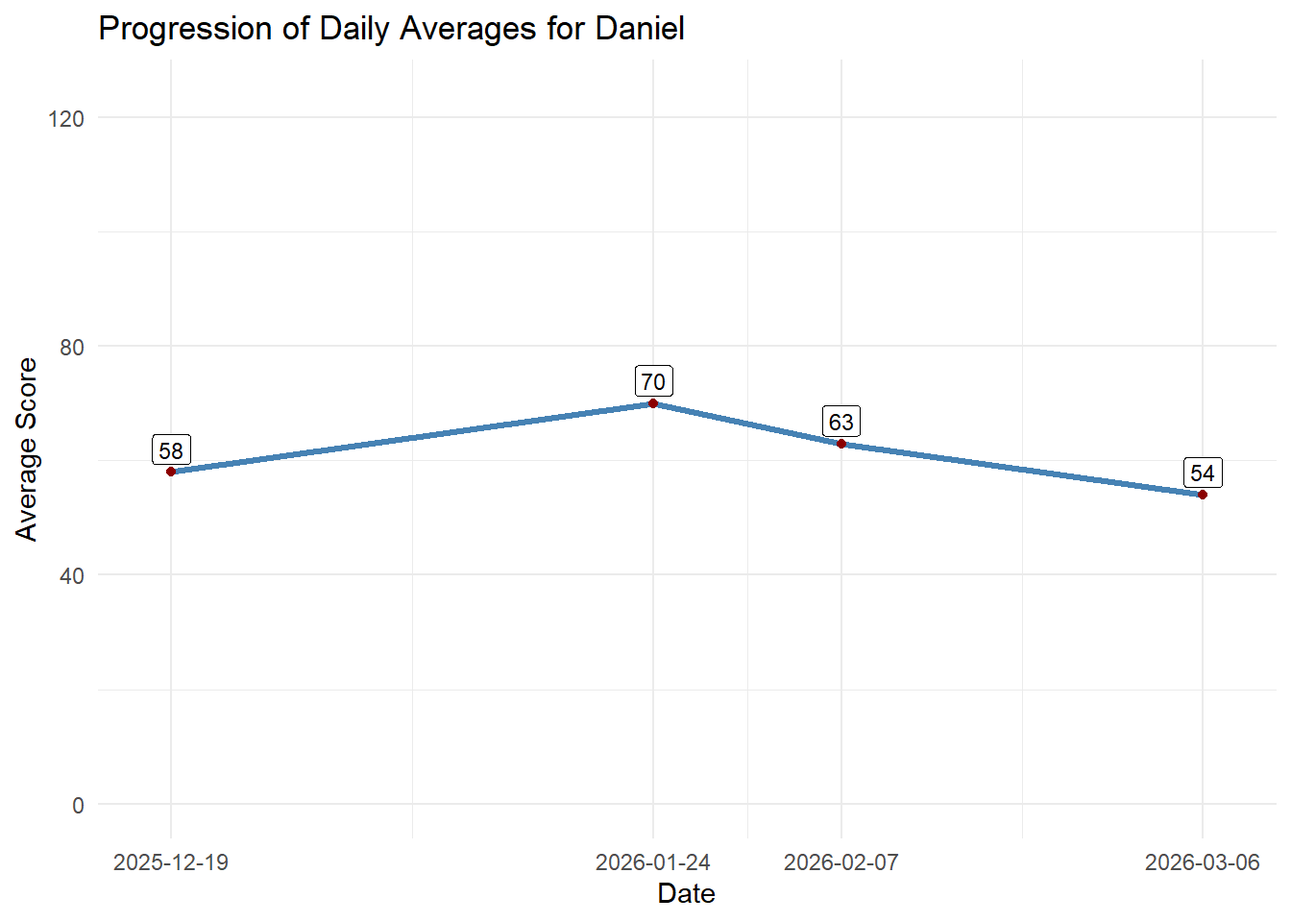
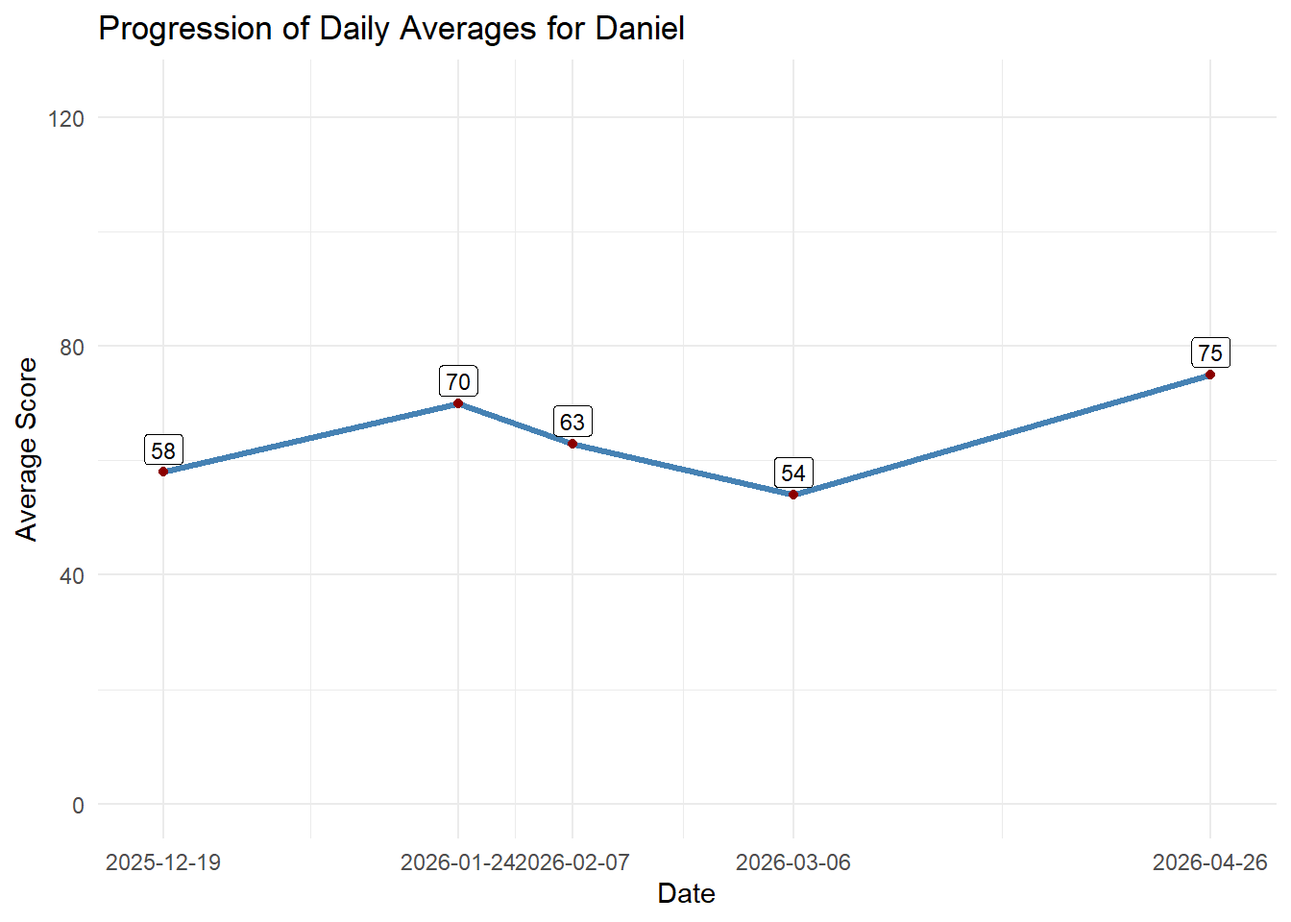
added results of 2026-04-26

diff --git a/docs/sessions.html b/docs/sessions.html
@@ -179,47 +179,56 @@ ul.task-list li input[type="checkbox"] {
 
 <p>The sessions are sorted from new to old.</p>
 <section id="section" class="level2">
-<h2 class="anchored" data-anchor-id="section">27.03.2026</h2>
+<h2 class="anchored" data-anchor-id="section">26.04.2026</h2>
 <div class="cell">
 <div class="cell-output-display">
-<div class="datatables html-widget html-fill-item" id="htmlwidget-effa2fcfee733bdd86a0" style="width:100%;height:auto;"></div>
-<script type="application/json" data-for="htmlwidget-effa2fcfee733bdd86a0">{"x":{"filter":"none","vertical":false,"data":[["1","2","3","4"],["Niko","Anatolii","Flora","Julia"],[119,88,75,49],[105,81,89,94],[112,84.5,82,71.5],[9.9,4.9,9.9,31.8],[3,2,1,4]],"container":"<table class=\"display\">\n  <thead>\n    <tr>\n      <th> <\/th>\n      <th>Player<\/th>\n      <th>Round 1<\/th>\n      <th>Round 2<\/th>\n      <th>Average Score<\/th>\n      <th>Score Standard Deviation<\/th>\n      <th>Strikes<\/th>\n    <\/tr>\n  <\/thead>\n<\/table>","options":{"dom":"t","paging":false,"searching":false,"info":false,"lengthChange":false,"columnDefs":[{"orderSequence":["desc","asc"],"targets":"_all"},{"className":"dt-right","targets":[2,3,4,5,6]},{"orderable":false,"targets":0},{"name":" ","targets":0},{"name":"Player","targets":1},{"name":"Round 1","targets":2},{"name":"Round 2","targets":3},{"name":"Average Score","targets":4},{"name":"Score Standard Deviation","targets":5},{"name":"Strikes","targets":6}],"order":[],"autoWidth":false,"orderClasses":false}},"evals":[],"jsHooks":[]}</script>
+<div class="datatables html-widget html-fill-item" id="htmlwidget-60a95d5fb278fb2bba35" style="width:100%;height:auto;"></div>
+<script type="application/json" data-for="htmlwidget-60a95d5fb278fb2bba35">{"x":{"filter":"none","vertical":false,"data":[["1","2","3","4"],["Anatolii","Niko","Daniel","Flora"],[85,85,57,46],[90,71,93,78],[87.5,78,75,62],[3.5,9.9,25.5,22.6],[2,0,1,1]],"container":"<table class=\"display\">\n  <thead>\n    <tr>\n      <th> <\/th>\n      <th>Player<\/th>\n      <th>Round 1<\/th>\n      <th>Round 2<\/th>\n      <th>Average Score<\/th>\n      <th>Score Standard Deviation<\/th>\n      <th>Strikes<\/th>\n    <\/tr>\n  <\/thead>\n<\/table>","options":{"dom":"t","paging":false,"searching":false,"info":false,"lengthChange":false,"columnDefs":[{"orderSequence":["desc","asc"],"targets":"_all"},{"className":"dt-right","targets":[2,3,4,5,6]},{"orderable":false,"targets":0},{"name":" ","targets":0},{"name":"Player","targets":1},{"name":"Round 1","targets":2},{"name":"Round 2","targets":3},{"name":"Average Score","targets":4},{"name":"Score Standard Deviation","targets":5},{"name":"Strikes","targets":6}],"order":[],"autoWidth":false,"orderClasses":false}},"evals":[],"jsHooks":[]}</script>
 </div>
 </div>
 </section>
 <section id="section-1" class="level2">
-<h2 class="anchored" data-anchor-id="section-1">06.03.2026</h2>
+<h2 class="anchored" data-anchor-id="section-1">27.03.2026</h2>
 <div class="cell">
 <div class="cell-output-display">
-<div class="datatables html-widget html-fill-item" id="htmlwidget-b308853e47e1a6294600" style="width:100%;height:auto;"></div>
-<script type="application/json" data-for="htmlwidget-b308853e47e1a6294600">{"x":{"filter":"none","vertical":false,"data":[["1","2","3","4"],["Flora","Julia","Daniel","Maria"],[95,45,57,58],[77,64,50,38],[86,54.5,53.5,48],[12.7,13.4,4.9,14.1],[2,0,1,0]],"container":"<table class=\"display\">\n  <thead>\n    <tr>\n      <th> <\/th>\n      <th>Player<\/th>\n      <th>Round 1<\/th>\n      <th>Round 2<\/th>\n      <th>Average Score<\/th>\n      <th>Score Standard Deviation<\/th>\n      <th>Strikes<\/th>\n    <\/tr>\n  <\/thead>\n<\/table>","options":{"dom":"t","paging":false,"searching":false,"info":false,"lengthChange":false,"columnDefs":[{"orderSequence":["desc","asc"],"targets":"_all"},{"className":"dt-right","targets":[2,3,4,5,6]},{"orderable":false,"targets":0},{"name":" ","targets":0},{"name":"Player","targets":1},{"name":"Round 1","targets":2},{"name":"Round 2","targets":3},{"name":"Average Score","targets":4},{"name":"Score Standard Deviation","targets":5},{"name":"Strikes","targets":6}],"order":[],"autoWidth":false,"orderClasses":false}},"evals":[],"jsHooks":[]}</script>
+<div class="datatables html-widget html-fill-item" id="htmlwidget-807c30022fb1ad3accb7" style="width:100%;height:auto;"></div>
+<script type="application/json" data-for="htmlwidget-807c30022fb1ad3accb7">{"x":{"filter":"none","vertical":false,"data":[["1","2","3","4"],["Niko","Anatolii","Flora","Julia"],[119,88,75,49],[105,81,89,94],[112,84.5,82,71.5],[9.9,4.9,9.9,31.8],[3,2,1,4]],"container":"<table class=\"display\">\n  <thead>\n    <tr>\n      <th> <\/th>\n      <th>Player<\/th>\n      <th>Round 1<\/th>\n      <th>Round 2<\/th>\n      <th>Average Score<\/th>\n      <th>Score Standard Deviation<\/th>\n      <th>Strikes<\/th>\n    <\/tr>\n  <\/thead>\n<\/table>","options":{"dom":"t","paging":false,"searching":false,"info":false,"lengthChange":false,"columnDefs":[{"orderSequence":["desc","asc"],"targets":"_all"},{"className":"dt-right","targets":[2,3,4,5,6]},{"orderable":false,"targets":0},{"name":" ","targets":0},{"name":"Player","targets":1},{"name":"Round 1","targets":2},{"name":"Round 2","targets":3},{"name":"Average Score","targets":4},{"name":"Score Standard Deviation","targets":5},{"name":"Strikes","targets":6}],"order":[],"autoWidth":false,"orderClasses":false}},"evals":[],"jsHooks":[]}</script>
 </div>
 </div>
 </section>
 <section id="section-2" class="level2">
-<h2 class="anchored" data-anchor-id="section-2">07.02.2026</h2>
+<h2 class="anchored" data-anchor-id="section-2">06.03.2026</h2>
 <div class="cell">
 <div class="cell-output-display">
-<div class="datatables html-widget html-fill-item" id="htmlwidget-b8e3eefb095fd78a4b74" style="width:100%;height:auto;"></div>
-<script type="application/json" data-for="htmlwidget-b8e3eefb095fd78a4b74">{"x":{"filter":"none","vertical":false,"data":[["1","2","3","4"],["Niko","Anatolii","Julia","Daniel"],[81,71,63,49],[124,74,68,82],[82,81,70,59],[95.7,75.3,67,63.3],[24.5,5.1,3.6,16.9],[2,2,0,0]],"container":"<table class=\"display\">\n  <thead>\n    <tr>\n      <th> <\/th>\n      <th>Player<\/th>\n      <th>Round 1<\/th>\n      <th>Round 2<\/th>\n      <th>Round 3<\/th>\n      <th>Average Score<\/th>\n      <th>Score Standard Deviation<\/th>\n      <th>Strikes<\/th>\n    <\/tr>\n  <\/thead>\n<\/table>","options":{"dom":"t","paging":false,"searching":false,"info":false,"lengthChange":false,"columnDefs":[{"orderSequence":["desc","asc"],"targets":"_all"},{"className":"dt-right","targets":[2,3,4,5,6,7]},{"orderable":false,"targets":0},{"name":" ","targets":0},{"name":"Player","targets":1},{"name":"Round 1","targets":2},{"name":"Round 2","targets":3},{"name":"Round 3","targets":4},{"name":"Average Score","targets":5},{"name":"Score Standard Deviation","targets":6},{"name":"Strikes","targets":7}],"order":[],"autoWidth":false,"orderClasses":false}},"evals":[],"jsHooks":[]}</script>
+<div class="datatables html-widget html-fill-item" id="htmlwidget-5e85454294df7d7a7c48" style="width:100%;height:auto;"></div>
+<script type="application/json" data-for="htmlwidget-5e85454294df7d7a7c48">{"x":{"filter":"none","vertical":false,"data":[["1","2","3","4"],["Flora","Julia","Daniel","Maria"],[95,45,57,58],[77,64,50,38],[86,54.5,53.5,48],[12.7,13.4,4.9,14.1],[2,0,1,0]],"container":"<table class=\"display\">\n  <thead>\n    <tr>\n      <th> <\/th>\n      <th>Player<\/th>\n      <th>Round 1<\/th>\n      <th>Round 2<\/th>\n      <th>Average Score<\/th>\n      <th>Score Standard Deviation<\/th>\n      <th>Strikes<\/th>\n    <\/tr>\n  <\/thead>\n<\/table>","options":{"dom":"t","paging":false,"searching":false,"info":false,"lengthChange":false,"columnDefs":[{"orderSequence":["desc","asc"],"targets":"_all"},{"className":"dt-right","targets":[2,3,4,5,6]},{"orderable":false,"targets":0},{"name":" ","targets":0},{"name":"Player","targets":1},{"name":"Round 1","targets":2},{"name":"Round 2","targets":3},{"name":"Average Score","targets":4},{"name":"Score Standard Deviation","targets":5},{"name":"Strikes","targets":6}],"order":[],"autoWidth":false,"orderClasses":false}},"evals":[],"jsHooks":[]}</script>
 </div>
 </div>
 </section>
 <section id="section-3" class="level2">
-<h2 class="anchored" data-anchor-id="section-3">24.01.2026</h2>
+<h2 class="anchored" data-anchor-id="section-3">07.02.2026</h2>
 <div class="cell">
 <div class="cell-output-display">
-<div class="datatables html-widget html-fill-item" id="htmlwidget-a43e8916b580a3f84c12" style="width:100%;height:auto;"></div>
-<script type="application/json" data-for="htmlwidget-a43e8916b580a3f84c12">{"x":{"filter":"none","vertical":false,"data":[["1","2","3","4","5"],["Niko","Anatolii","Daniel","Julia","Flora"],[73,73,82,65,46],[101,70,54,81,81],[86,71,75,64,72],[86.7,71.3,70.3,70,66.3],[14,1.5,14.6,9.5,18.2],[2,2,0,3,1]],"container":"<table class=\"display\">\n  <thead>\n    <tr>\n      <th> <\/th>\n      <th>Player<\/th>\n      <th>Round 1<\/th>\n      <th>Round 2<\/th>\n      <th>Round 3<\/th>\n      <th>Average Score<\/th>\n      <th>Score Standard Deviation<\/th>\n      <th>Strikes<\/th>\n    <\/tr>\n  <\/thead>\n<\/table>","options":{"dom":"t","paging":false,"searching":false,"info":false,"lengthChange":false,"columnDefs":[{"orderSequence":["desc","asc"],"targets":"_all"},{"className":"dt-right","targets":[2,3,4,5,6,7]},{"orderable":false,"targets":0},{"name":" ","targets":0},{"name":"Player","targets":1},{"name":"Round 1","targets":2},{"name":"Round 2","targets":3},{"name":"Round 3","targets":4},{"name":"Average Score","targets":5},{"name":"Score Standard Deviation","targets":6},{"name":"Strikes","targets":7}],"order":[],"autoWidth":false,"orderClasses":false}},"evals":[],"jsHooks":[]}</script>
+<div class="datatables html-widget html-fill-item" id="htmlwidget-0cbfdb08501b581d9af6" style="width:100%;height:auto;"></div>
+<script type="application/json" data-for="htmlwidget-0cbfdb08501b581d9af6">{"x":{"filter":"none","vertical":false,"data":[["1","2","3","4"],["Niko","Anatolii","Julia","Daniel"],[81,71,63,49],[124,74,68,82],[82,81,70,59],[95.7,75.3,67,63.3],[24.5,5.1,3.6,16.9],[2,2,0,0]],"container":"<table class=\"display\">\n  <thead>\n    <tr>\n      <th> <\/th>\n      <th>Player<\/th>\n      <th>Round 1<\/th>\n      <th>Round 2<\/th>\n      <th>Round 3<\/th>\n      <th>Average Score<\/th>\n      <th>Score Standard Deviation<\/th>\n      <th>Strikes<\/th>\n    <\/tr>\n  <\/thead>\n<\/table>","options":{"dom":"t","paging":false,"searching":false,"info":false,"lengthChange":false,"columnDefs":[{"orderSequence":["desc","asc"],"targets":"_all"},{"className":"dt-right","targets":[2,3,4,5,6,7]},{"orderable":false,"targets":0},{"name":" ","targets":0},{"name":"Player","targets":1},{"name":"Round 1","targets":2},{"name":"Round 2","targets":3},{"name":"Round 3","targets":4},{"name":"Average Score","targets":5},{"name":"Score Standard Deviation","targets":6},{"name":"Strikes","targets":7}],"order":[],"autoWidth":false,"orderClasses":false}},"evals":[],"jsHooks":[]}</script>
 </div>
 </div>
 </section>
 <section id="section-4" class="level2">
-<h2 class="anchored" data-anchor-id="section-4">19.12.2025</h2>
+<h2 class="anchored" data-anchor-id="section-4">24.01.2026</h2>
 <div class="cell">
 <div class="cell-output-display">
-<div class="datatables html-widget html-fill-item" id="htmlwidget-caf82d900a7888361215" style="width:100%;height:auto;"></div>
-<script type="application/json" data-for="htmlwidget-caf82d900a7888361215">{"x":{"filter":"none","vertical":false,"data":[["1","2","3","4","5"],["Niko","Anatolii","Julia","Flora","Daniel"],[73,61,66,105,48],[97,79,79,51,77],[90,101,79,43,49],[86.7,80.3,74.7,66.3,58],[12.3,20,7.5,33.7,16.5],[3,2,0,2,1]],"container":"<table class=\"display\">\n  <thead>\n    <tr>\n      <th> <\/th>\n      <th>Player<\/th>\n      <th>Round 1<\/th>\n      <th>Round 2<\/th>\n      <th>Round 3<\/th>\n      <th>Average Score<\/th>\n      <th>Score Standard Deviation<\/th>\n      <th>Strikes<\/th>\n    <\/tr>\n  <\/thead>\n<\/table>","options":{"dom":"t","paging":false,"searching":false,"info":false,"lengthChange":false,"columnDefs":[{"orderSequence":["desc","asc"],"targets":"_all"},{"className":"dt-right","targets":[2,3,4,5,6,7]},{"orderable":false,"targets":0},{"name":" ","targets":0},{"name":"Player","targets":1},{"name":"Round 1","targets":2},{"name":"Round 2","targets":3},{"name":"Round 3","targets":4},{"name":"Average Score","targets":5},{"name":"Score Standard Deviation","targets":6},{"name":"Strikes","targets":7}],"order":[],"autoWidth":false,"orderClasses":false}},"evals":[],"jsHooks":[]}</script>
+<div class="datatables html-widget html-fill-item" id="htmlwidget-4eeefd9e6f059277057b" style="width:100%;height:auto;"></div>
+<script type="application/json" data-for="htmlwidget-4eeefd9e6f059277057b">{"x":{"filter":"none","vertical":false,"data":[["1","2","3","4","5"],["Niko","Anatolii","Daniel","Julia","Flora"],[73,73,82,65,46],[101,70,54,81,81],[86,71,75,64,72],[86.7,71.3,70.3,70,66.3],[14,1.5,14.6,9.5,18.2],[2,2,0,3,1]],"container":"<table class=\"display\">\n  <thead>\n    <tr>\n      <th> <\/th>\n      <th>Player<\/th>\n      <th>Round 1<\/th>\n      <th>Round 2<\/th>\n      <th>Round 3<\/th>\n      <th>Average Score<\/th>\n      <th>Score Standard Deviation<\/th>\n      <th>Strikes<\/th>\n    <\/tr>\n  <\/thead>\n<\/table>","options":{"dom":"t","paging":false,"searching":false,"info":false,"lengthChange":false,"columnDefs":[{"orderSequence":["desc","asc"],"targets":"_all"},{"className":"dt-right","targets":[2,3,4,5,6,7]},{"orderable":false,"targets":0},{"name":" ","targets":0},{"name":"Player","targets":1},{"name":"Round 1","targets":2},{"name":"Round 2","targets":3},{"name":"Round 3","targets":4},{"name":"Average Score","targets":5},{"name":"Score Standard Deviation","targets":6},{"name":"Strikes","targets":7}],"order":[],"autoWidth":false,"orderClasses":false}},"evals":[],"jsHooks":[]}</script>
+</div>
+</div>
+</section>
+<section id="section-5" class="level2">
+<h2 class="anchored" data-anchor-id="section-5">19.12.2025</h2>
+<div class="cell">
+<div class="cell-output-display">
+<div class="datatables html-widget html-fill-item" id="htmlwidget-f11d975f3b57e3078458" style="width:100%;height:auto;"></div>
+<script type="application/json" data-for="htmlwidget-f11d975f3b57e3078458">{"x":{"filter":"none","vertical":false,"data":[["1","2","3","4","5"],["Niko","Anatolii","Julia","Flora","Daniel"],[73,61,66,105,48],[97,79,79,51,77],[90,101,79,43,49],[86.7,80.3,74.7,66.3,58],[12.3,20,7.5,33.7,16.5],[3,2,0,2,1]],"container":"<table class=\"display\">\n  <thead>\n    <tr>\n      <th> <\/th>\n      <th>Player<\/th>\n      <th>Round 1<\/th>\n      <th>Round 2<\/th>\n      <th>Round 3<\/th>\n      <th>Average Score<\/th>\n      <th>Score Standard Deviation<\/th>\n      <th>Strikes<\/th>\n    <\/tr>\n  <\/thead>\n<\/table>","options":{"dom":"t","paging":false,"searching":false,"info":false,"lengthChange":false,"columnDefs":[{"orderSequence":["desc","asc"],"targets":"_all"},{"className":"dt-right","targets":[2,3,4,5,6,7]},{"orderable":false,"targets":0},{"name":" ","targets":0},{"name":"Player","targets":1},{"name":"Round 1","targets":2},{"name":"Round 2","targets":3},{"name":"Round 3","targets":4},{"name":"Average Score","targets":5},{"name":"Score Standard Deviation","targets":6},{"name":"Strikes","targets":7}],"order":[],"autoWidth":false,"orderClasses":false}},"evals":[],"jsHooks":[]}</script>
 </div>
 </div>
 

diff --git a/docs/index.html b/docs/index.html
@@ -179,8 +179,8 @@ ul.task-list li input[type="checkbox"] {
 
 <div class="cell">
 <div class="cell-output-display">
-<div class="datatables html-widget html-fill-item" id="htmlwidget-2c00bdac7072eb062334" style="width:100%;height:auto;"></div>
-<script type="application/json" data-for="htmlwidget-2c00bdac7072eb062334">{"x":{"filter":"none","vertical":false,"data":[["1","2","3","4","5","6"],["Niko","Anatolii","Flora","Julia","Daniel","Maria"],[11,11,10,13,11,2],[93.7,77.3,73.40000000000001,68.2,62,48],[124,101,105,94,82,58],[73,61,43,45,48,38],[17.3,10.6,21,13.1,14,14.1],[0.9,0.7,0.6,0.5,0.2,0]],"container":"<table class=\"display\">\n  <thead>\n    <tr>\n      <th> <\/th>\n      <th>Player<\/th>\n      <th>Total Rounds Played<\/th>\n      <th>Average Score<\/th>\n      <th>Best Score<\/th>\n      <th>Worst Score<\/th>\n      <th>Score Standard Deviation<\/th>\n      <th>Strikes/ Game<\/th>\n    <\/tr>\n  <\/thead>\n<\/table>","options":{"dom":"t","paging":false,"searching":false,"info":false,"lengthChange":false,"columnDefs":[{"orderSequence":["desc","asc"],"targets":"_all"},{"className":"dt-right","targets":[2,3,4,5,6,7]},{"orderable":false,"targets":0},{"name":" ","targets":0},{"name":"Player","targets":1},{"name":"Total Rounds Played","targets":2},{"name":"Average Score","targets":3},{"name":"Best Score","targets":4},{"name":"Worst Score","targets":5},{"name":"Score Standard Deviation","targets":6},{"name":"Strikes/ Game","targets":7}],"order":[],"autoWidth":false,"orderClasses":false}},"evals":[],"jsHooks":[]}</script>
+<div class="datatables html-widget html-fill-item" id="htmlwidget-fb018e53b0d8a314315c" style="width:100%;height:auto;"></div>
+<script type="application/json" data-for="htmlwidget-fb018e53b0d8a314315c">{"x":{"filter":"none","vertical":false,"data":[["1","2","3","4","5","6"],["Niko","Anatolii","Flora","Julia","Daniel","Maria"],[13,13,12,13,13,2],[91.3,78.8,71.5,68.2,64,48],[124,101,105,94,93,58],[71,61,43,45,48,38],[17.1,10.5,20.6,13.1,15.6,14.1],[0.8,0.8,0.6,0.5,0.2,0]],"container":"<table class=\"display\">\n  <thead>\n    <tr>\n      <th> <\/th>\n      <th>Player<\/th>\n      <th>Total Rounds Played<\/th>\n      <th>Average Score<\/th>\n      <th>Best Score<\/th>\n      <th>Worst Score<\/th>\n      <th>Score Standard Deviation<\/th>\n      <th>Strikes/ Game<\/th>\n    <\/tr>\n  <\/thead>\n<\/table>","options":{"dom":"t","paging":false,"searching":false,"info":false,"lengthChange":false,"columnDefs":[{"orderSequence":["desc","asc"],"targets":"_all"},{"className":"dt-right","targets":[2,3,4,5,6,7]},{"orderable":false,"targets":0},{"name":" ","targets":0},{"name":"Player","targets":1},{"name":"Total Rounds Played","targets":2},{"name":"Average Score","targets":3},{"name":"Best Score","targets":4},{"name":"Worst Score","targets":5},{"name":"Score Standard Deviation","targets":6},{"name":"Strikes/ Game","targets":7}],"order":[],"autoWidth":false,"orderClasses":false}},"evals":[],"jsHooks":[]}</script>
 </div>
 </div>
 

diff --git a/docs/players/flora.html b/docs/players/flora.html
@@ -179,8 +179,8 @@ ul.task-list li input[type="checkbox"] {
 <h2 class="anchored" data-anchor-id="stats-overview">Stats Overview</h2>
 <div class="cell">
 <div class="cell-output-display">
-<div class="datatables html-widget html-fill-item" id="htmlwidget-9ec30089ae21331f8933" style="width:100%;height:auto;"></div>
-<script type="application/json" data-for="htmlwidget-9ec30089ae21331f8933">{"x":{"filter":"none","vertical":false,"data":[[10],[105],[43],[73.40000000000001],[21],[0.6]],"container":"<table class=\"display\">\n  <thead>\n    <tr>\n      <th>Total Rounds Played<\/th>\n      <th>Highest Score<\/th>\n      <th>Lowest Score<\/th>\n      <th>Average Score<\/th>\n      <th>Score Standard Deviation<\/th>\n      <th>Strikes/ Game<\/th>\n    <\/tr>\n  <\/thead>\n<\/table>","options":{"dom":"t","paging":false,"searching":false,"info":false,"lengthChange":false,"columnDefs":[{"className":"dt-right","targets":[0,1,2,3,4,5]},{"name":"Total Rounds Played","targets":0},{"name":"Highest Score","targets":1},{"name":"Lowest Score","targets":2},{"name":"Average Score","targets":3},{"name":"Score Standard Deviation","targets":4},{"name":"Strikes/ Game","targets":5}],"order":[],"autoWidth":false,"orderClasses":false}},"evals":[],"jsHooks":[]}</script>
+<div class="datatables html-widget html-fill-item" id="htmlwidget-f2dbd1909c974ecd1c83" style="width:100%;height:auto;"></div>
+<script type="application/json" data-for="htmlwidget-f2dbd1909c974ecd1c83">{"x":{"filter":"none","vertical":false,"data":[[12],[105],[43],[71.5],[20.6],[0.6]],"container":"<table class=\"display\">\n  <thead>\n    <tr>\n      <th>Total Rounds Played<\/th>\n      <th>Highest Score<\/th>\n      <th>Lowest Score<\/th>\n      <th>Average Score<\/th>\n      <th>Score Standard Deviation<\/th>\n      <th>Strikes/ Game<\/th>\n    <\/tr>\n  <\/thead>\n<\/table>","options":{"dom":"t","paging":false,"searching":false,"info":false,"lengthChange":false,"columnDefs":[{"className":"dt-right","targets":[0,1,2,3,4,5]},{"name":"Total Rounds Played","targets":0},{"name":"Highest Score","targets":1},{"name":"Lowest Score","targets":2},{"name":"Average Score","targets":3},{"name":"Score Standard Deviation","targets":4},{"name":"Strikes/ Game","targets":5}],"order":[],"autoWidth":false,"orderClasses":false}},"evals":[],"jsHooks":[]}</script>
 </div>
 </div>
 </section>

diff --git a/docs/players/anatolii.html b/docs/players/anatolii.html
@@ -179,8 +179,8 @@ ul.task-list li input[type="checkbox"] {
 <h2 class="anchored" data-anchor-id="stats-overview">Stats Overview</h2>
 <div class="cell">
 <div class="cell-output-display">
-<div class="datatables html-widget html-fill-item" id="htmlwidget-f496b88ac72aecbaec1b" style="width:100%;height:auto;"></div>
-<script type="application/json" data-for="htmlwidget-f496b88ac72aecbaec1b">{"x":{"filter":"none","vertical":false,"data":[[11],[101],[61],[77.3],[10.6],[0.7]],"container":"<table class=\"display\">\n  <thead>\n    <tr>\n      <th>Total Rounds Played<\/th>\n      <th>Highest Score<\/th>\n      <th>Lowest Score<\/th>\n      <th>Average Score<\/th>\n      <th>Score Standard Deviation<\/th>\n      <th>Strikes/ Game<\/th>\n    <\/tr>\n  <\/thead>\n<\/table>","options":{"dom":"t","paging":false,"searching":false,"info":false,"lengthChange":false,"columnDefs":[{"className":"dt-right","targets":[0,1,2,3,4,5]},{"name":"Total Rounds Played","targets":0},{"name":"Highest Score","targets":1},{"name":"Lowest Score","targets":2},{"name":"Average Score","targets":3},{"name":"Score Standard Deviation","targets":4},{"name":"Strikes/ Game","targets":5}],"order":[],"autoWidth":false,"orderClasses":false}},"evals":[],"jsHooks":[]}</script>
+<div class="datatables html-widget html-fill-item" id="htmlwidget-b89f018ba14fa07ef988" style="width:100%;height:auto;"></div>
+<script type="application/json" data-for="htmlwidget-b89f018ba14fa07ef988">{"x":{"filter":"none","vertical":false,"data":[[13],[101],[61],[78.8],[10.5],[0.8]],"container":"<table class=\"display\">\n  <thead>\n    <tr>\n      <th>Total Rounds Played<\/th>\n      <th>Highest Score<\/th>\n      <th>Lowest Score<\/th>\n      <th>Average Score<\/th>\n      <th>Score Standard Deviation<\/th>\n      <th>Strikes/ Game<\/th>\n    <\/tr>\n  <\/thead>\n<\/table>","options":{"dom":"t","paging":false,"searching":false,"info":false,"lengthChange":false,"columnDefs":[{"className":"dt-right","targets":[0,1,2,3,4,5]},{"name":"Total Rounds Played","targets":0},{"name":"Highest Score","targets":1},{"name":"Lowest Score","targets":2},{"name":"Average Score","targets":3},{"name":"Score Standard Deviation","targets":4},{"name":"Strikes/ Game","targets":5}],"order":[],"autoWidth":false,"orderClasses":false}},"evals":[],"jsHooks":[]}</script>
 </div>
 </div>
 </section>

diff --git a/docs/players/niko.html b/docs/players/niko.html
@@ -179,8 +179,8 @@ ul.task-list li input[type="checkbox"] {
 <h2 class="anchored" data-anchor-id="stats-overview">Stats Overview</h2>
 <div class="cell">
 <div class="cell-output-display">
-<div class="datatables html-widget html-fill-item" id="htmlwidget-1f86c50b4e87f321c8ac" style="width:100%;height:auto;"></div>
-<script type="application/json" data-for="htmlwidget-1f86c50b4e87f321c8ac">{"x":{"filter":"none","vertical":false,"data":[[11],[124],[73],[93.7],[17.3],[0.9]],"container":"<table class=\"display\">\n  <thead>\n    <tr>\n      <th>Total Rounds Played<\/th>\n      <th>Highest Score<\/th>\n      <th>Lowest Score<\/th>\n      <th>Average Score<\/th>\n      <th>Score Standard Deviation<\/th>\n      <th>Strikes/ Game<\/th>\n    <\/tr>\n  <\/thead>\n<\/table>","options":{"dom":"t","paging":false,"searching":false,"info":false,"lengthChange":false,"columnDefs":[{"className":"dt-right","targets":[0,1,2,3,4,5]},{"name":"Total Rounds Played","targets":0},{"name":"Highest Score","targets":1},{"name":"Lowest Score","targets":2},{"name":"Average Score","targets":3},{"name":"Score Standard Deviation","targets":4},{"name":"Strikes/ Game","targets":5}],"order":[],"autoWidth":false,"orderClasses":false}},"evals":[],"jsHooks":[]}</script>
+<div class="datatables html-widget html-fill-item" id="htmlwidget-fdfd38cee054f5969bbd" style="width:100%;height:auto;"></div>
+<script type="application/json" data-for="htmlwidget-fdfd38cee054f5969bbd">{"x":{"filter":"none","vertical":false,"data":[[13],[124],[71],[91.3],[17.1],[0.8]],"container":"<table class=\"display\">\n  <thead>\n    <tr>\n      <th>Total Rounds Played<\/th>\n      <th>Highest Score<\/th>\n      <th>Lowest Score<\/th>\n      <th>Average Score<\/th>\n      <th>Score Standard Deviation<\/th>\n      <th>Strikes/ Game<\/th>\n    <\/tr>\n  <\/thead>\n<\/table>","options":{"dom":"t","paging":false,"searching":false,"info":false,"lengthChange":false,"columnDefs":[{"className":"dt-right","targets":[0,1,2,3,4,5]},{"name":"Total Rounds Played","targets":0},{"name":"Highest Score","targets":1},{"name":"Lowest Score","targets":2},{"name":"Average Score","targets":3},{"name":"Score Standard Deviation","targets":4},{"name":"Strikes/ Game","targets":5}],"order":[],"autoWidth":false,"orderClasses":false}},"evals":[],"jsHooks":[]}</script>
 </div>
 </div>
 </section>

diff --git a/docs/players/julia.html b/docs/players/julia.html
@@ -179,8 +179,8 @@ ul.task-list li input[type="checkbox"] {
 <h2 class="anchored" data-anchor-id="stats-overview">Stats Overview</h2>
 <div class="cell">
 <div class="cell-output-display">
-<div class="datatables html-widget html-fill-item" id="htmlwidget-7e770af08539891a5f5a" style="width:100%;height:auto;"></div>
-<script type="application/json" data-for="htmlwidget-7e770af08539891a5f5a">{"x":{"filter":"none","vertical":false,"data":[[13],[94],[45],[68.2],[13.1],[0.5]],"container":"<table class=\"display\">\n  <thead>\n    <tr>\n      <th>Total Rounds Played<\/th>\n      <th>Highest Score<\/th>\n      <th>Lowest Score<\/th>\n      <th>Average Score<\/th>\n      <th>Score Standard Deviation<\/th>\n      <th>Strikes/ Game<\/th>\n    <\/tr>\n  <\/thead>\n<\/table>","options":{"dom":"t","paging":false,"searching":false,"info":false,"lengthChange":false,"columnDefs":[{"className":"dt-right","targets":[0,1,2,3,4,5]},{"name":"Total Rounds Played","targets":0},{"name":"Highest Score","targets":1},{"name":"Lowest Score","targets":2},{"name":"Average Score","targets":3},{"name":"Score Standard Deviation","targets":4},{"name":"Strikes/ Game","targets":5}],"order":[],"autoWidth":false,"orderClasses":false}},"evals":[],"jsHooks":[]}</script>
+<div class="datatables html-widget html-fill-item" id="htmlwidget-064eb3e21efe26cf2d9c" style="width:100%;height:auto;"></div>
+<script type="application/json" data-for="htmlwidget-064eb3e21efe26cf2d9c">{"x":{"filter":"none","vertical":false,"data":[[13],[94],[45],[68.2],[13.1],[0.5]],"container":"<table class=\"display\">\n  <thead>\n    <tr>\n      <th>Total Rounds Played<\/th>\n      <th>Highest Score<\/th>\n      <th>Lowest Score<\/th>\n      <th>Average Score<\/th>\n      <th>Score Standard Deviation<\/th>\n      <th>Strikes/ Game<\/th>\n    <\/tr>\n  <\/thead>\n<\/table>","options":{"dom":"t","paging":false,"searching":false,"info":false,"lengthChange":false,"columnDefs":[{"className":"dt-right","targets":[0,1,2,3,4,5]},{"name":"Total Rounds Played","targets":0},{"name":"Highest Score","targets":1},{"name":"Lowest Score","targets":2},{"name":"Average Score","targets":3},{"name":"Score Standard Deviation","targets":4},{"name":"Strikes/ Game","targets":5}],"order":[],"autoWidth":false,"orderClasses":false}},"evals":[],"jsHooks":[]}</script>
 </div>
 </div>
 </section>

diff --git a/docs/players/nico.html b/docs/players/nico.html
@@ -187,8 +187,8 @@ Caused by warning in `max()`:
 ℹ Run `dplyr::last_dplyr_warnings()` to see the 1 remaining warning.</code></pre>
 </div>
 <div class="cell-output-display">
-<div class="datatables html-widget html-fill-item" id="htmlwidget-131b3cc204a42529f502" style="width:100%;height:auto;"></div>
-<script type="application/json" data-for="htmlwidget-131b3cc204a42529f502">{"x":{"filter":"none","vertical":false,"data":[[0],[null],[null],[null],[null],[null]],"container":"<table class=\"display\">\n  <thead>\n    <tr>\n      <th>Total Rounds Played<\/th>\n      <th>Highest Score<\/th>\n      <th>Lowest Score<\/th>\n      <th>Average Score<\/th>\n      <th>Score Standard Deviation<\/th>\n      <th>Strikes/ Game<\/th>\n    <\/tr>\n  <\/thead>\n<\/table>","options":{"dom":"t","paging":false,"searching":false,"info":false,"lengthChange":false,"columnDefs":[{"className":"dt-right","targets":[0,1,2,3,4,5]},{"name":"Total Rounds Played","targets":0},{"name":"Highest Score","targets":1},{"name":"Lowest Score","targets":2},{"name":"Average Score","targets":3},{"name":"Score Standard Deviation","targets":4},{"name":"Strikes/ Game","targets":5}],"order":[],"autoWidth":false,"orderClasses":false}},"evals":[],"jsHooks":[]}</script>
+<div class="datatables html-widget html-fill-item" id="htmlwidget-d2c49a22425ba72ce243" style="width:100%;height:auto;"></div>
+<script type="application/json" data-for="htmlwidget-d2c49a22425ba72ce243">{"x":{"filter":"none","vertical":false,"data":[[0],[null],[null],[null],[null],[null]],"container":"<table class=\"display\">\n  <thead>\n    <tr>\n      <th>Total Rounds Played<\/th>\n      <th>Highest Score<\/th>\n      <th>Lowest Score<\/th>\n      <th>Average Score<\/th>\n      <th>Score Standard Deviation<\/th>\n      <th>Strikes/ Game<\/th>\n    <\/tr>\n  <\/thead>\n<\/table>","options":{"dom":"t","paging":false,"searching":false,"info":false,"lengthChange":false,"columnDefs":[{"className":"dt-right","targets":[0,1,2,3,4,5]},{"name":"Total Rounds Played","targets":0},{"name":"Highest Score","targets":1},{"name":"Lowest Score","targets":2},{"name":"Average Score","targets":3},{"name":"Score Standard Deviation","targets":4},{"name":"Strikes/ Game","targets":5}],"order":[],"autoWidth":false,"orderClasses":false}},"evals":[],"jsHooks":[]}</script>
 </div>
 </div>
 </section>

diff --git a/docs/players/daniel.html b/docs/players/daniel.html
@@ -179,8 +179,8 @@ ul.task-list li input[type="checkbox"] {
 <h2 class="anchored" data-anchor-id="stats-overview">Stats Overview</h2>
 <div class="cell">
 <div class="cell-output-display">
-<div class="datatables html-widget html-fill-item" id="htmlwidget-4d69e341e1eaff02aa9f" style="width:100%;height:auto;"></div>
-<script type="application/json" data-for="htmlwidget-4d69e341e1eaff02aa9f">{"x":{"filter":"none","vertical":false,"data":[[11],[82],[48],[62],[14],[0.2]],"container":"<table class=\"display\">\n  <thead>\n    <tr>\n      <th>Total Rounds Played<\/th>\n      <th>Highest Score<\/th>\n      <th>Lowest Score<\/th>\n      <th>Average Score<\/th>\n      <th>Score Standard Deviation<\/th>\n      <th>Strikes/ Game<\/th>\n    <\/tr>\n  <\/thead>\n<\/table>","options":{"dom":"t","paging":false,"searching":false,"info":false,"lengthChange":false,"columnDefs":[{"className":"dt-right","targets":[0,1,2,3,4,5]},{"name":"Total Rounds Played","targets":0},{"name":"Highest Score","targets":1},{"name":"Lowest Score","targets":2},{"name":"Average Score","targets":3},{"name":"Score Standard Deviation","targets":4},{"name":"Strikes/ Game","targets":5}],"order":[],"autoWidth":false,"orderClasses":false}},"evals":[],"jsHooks":[]}</script>
+<div class="datatables html-widget html-fill-item" id="htmlwidget-2c2a53b4b7c50027eb07" style="width:100%;height:auto;"></div>
+<script type="application/json" data-for="htmlwidget-2c2a53b4b7c50027eb07">{"x":{"filter":"none","vertical":false,"data":[[13],[93],[48],[64],[15.6],[0.2]],"container":"<table class=\"display\">\n  <thead>\n    <tr>\n      <th>Total Rounds Played<\/th>\n      <th>Highest Score<\/th>\n      <th>Lowest Score<\/th>\n      <th>Average Score<\/th>\n      <th>Score Standard Deviation<\/th>\n      <th>Strikes/ Game<\/th>\n    <\/tr>\n  <\/thead>\n<\/table>","options":{"dom":"t","paging":false,"searching":false,"info":false,"lengthChange":false,"columnDefs":[{"className":"dt-right","targets":[0,1,2,3,4,5]},{"name":"Total Rounds Played","targets":0},{"name":"Highest Score","targets":1},{"name":"Lowest Score","targets":2},{"name":"Average Score","targets":3},{"name":"Score Standard Deviation","targets":4},{"name":"Strikes/ Game","targets":5}],"order":[],"autoWidth":false,"orderClasses":false}},"evals":[],"jsHooks":[]}</script>
 </div>
 </div>
 </section>

diff --git a/docs/players/maria.html b/docs/players/maria.html
@@ -179,8 +179,8 @@ ul.task-list li input[type="checkbox"] {
 <h2 class="anchored" data-anchor-id="stats-overview">Stats Overview</h2>
 <div class="cell">
 <div class="cell-output-display">
-<div class="datatables html-widget html-fill-item" id="htmlwidget-6343e75e28210a5a5dd7" style="width:100%;height:auto;"></div>
-<script type="application/json" data-for="htmlwidget-6343e75e28210a5a5dd7">{"x":{"filter":"none","vertical":false,"data":[[2],[58],[38],[48],[14.1],[0]],"container":"<table class=\"display\">\n  <thead>\n    <tr>\n      <th>Total Rounds Played<\/th>\n      <th>Highest Score<\/th>\n      <th>Lowest Score<\/th>\n      <th>Average Score<\/th>\n      <th>Score Standard Deviation<\/th>\n      <th>Strikes/ Game<\/th>\n    <\/tr>\n  <\/thead>\n<\/table>","options":{"dom":"t","paging":false,"searching":false,"info":false,"lengthChange":false,"columnDefs":[{"className":"dt-right","targets":[0,1,2,3,4,5]},{"name":"Total Rounds Played","targets":0},{"name":"Highest Score","targets":1},{"name":"Lowest Score","targets":2},{"name":"Average Score","targets":3},{"name":"Score Standard Deviation","targets":4},{"name":"Strikes/ Game","targets":5}],"order":[],"autoWidth":false,"orderClasses":false}},"evals":[],"jsHooks":[]}</script>
+<div class="datatables html-widget html-fill-item" id="htmlwidget-b707c617f63cbc9c71fe" style="width:100%;height:auto;"></div>
+<script type="application/json" data-for="htmlwidget-b707c617f63cbc9c71fe">{"x":{"filter":"none","vertical":false,"data":[[2],[58],[38],[48],[14.1],[0]],"container":"<table class=\"display\">\n  <thead>\n    <tr>\n      <th>Total Rounds Played<\/th>\n      <th>Highest Score<\/th>\n      <th>Lowest Score<\/th>\n      <th>Average Score<\/th>\n      <th>Score Standard Deviation<\/th>\n      <th>Strikes/ Game<\/th>\n    <\/tr>\n  <\/thead>\n<\/table>","options":{"dom":"t","paging":false,"searching":false,"info":false,"lengthChange":false,"columnDefs":[{"className":"dt-right","targets":[0,1,2,3,4,5]},{"name":"Total Rounds Played","targets":0},{"name":"Highest Score","targets":1},{"name":"Lowest Score","targets":2},{"name":"Average Score","targets":3},{"name":"Score Standard Deviation","targets":4},{"name":"Strikes/ Game","targets":5}],"order":[],"autoWidth":false,"orderClasses":false}},"evals":[],"jsHooks":[]}</script>
 </div>
 </div>
 </section>
